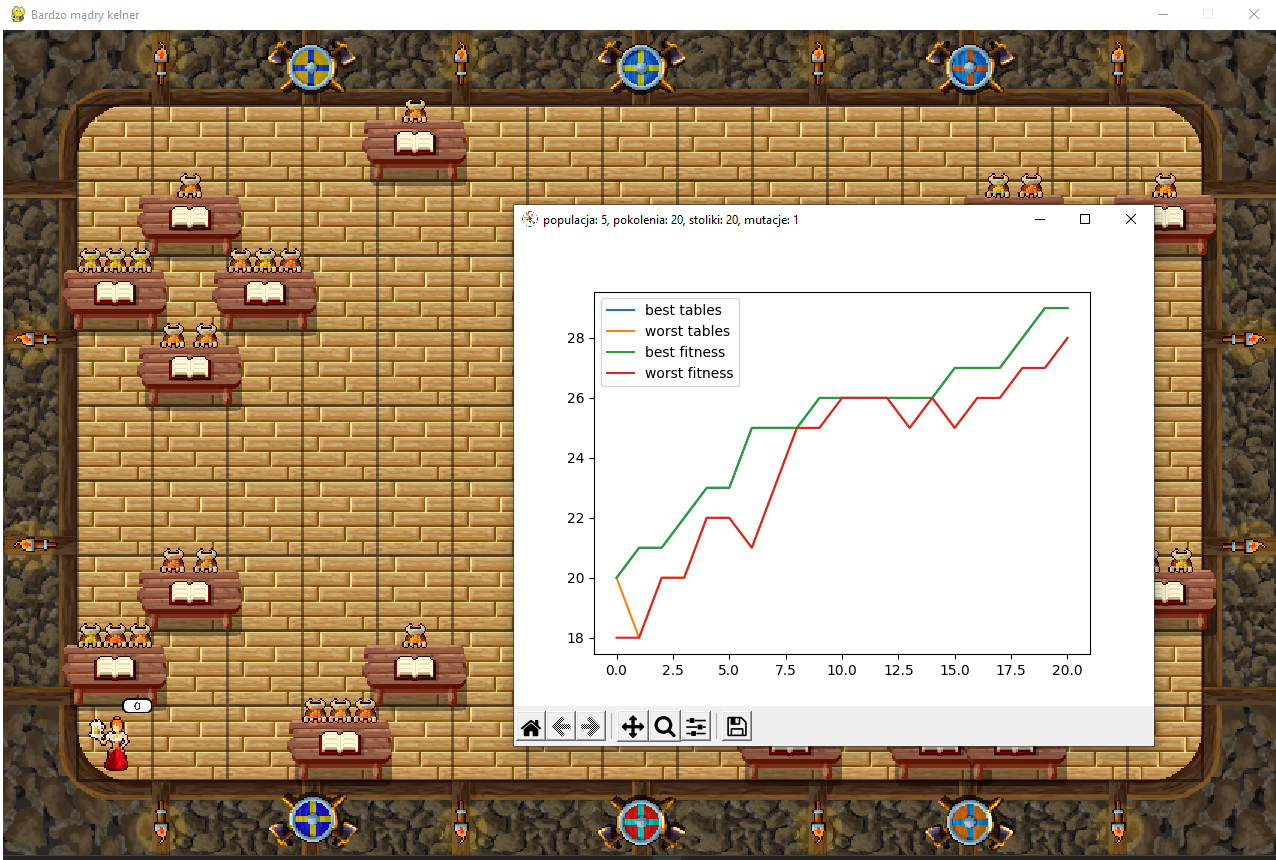
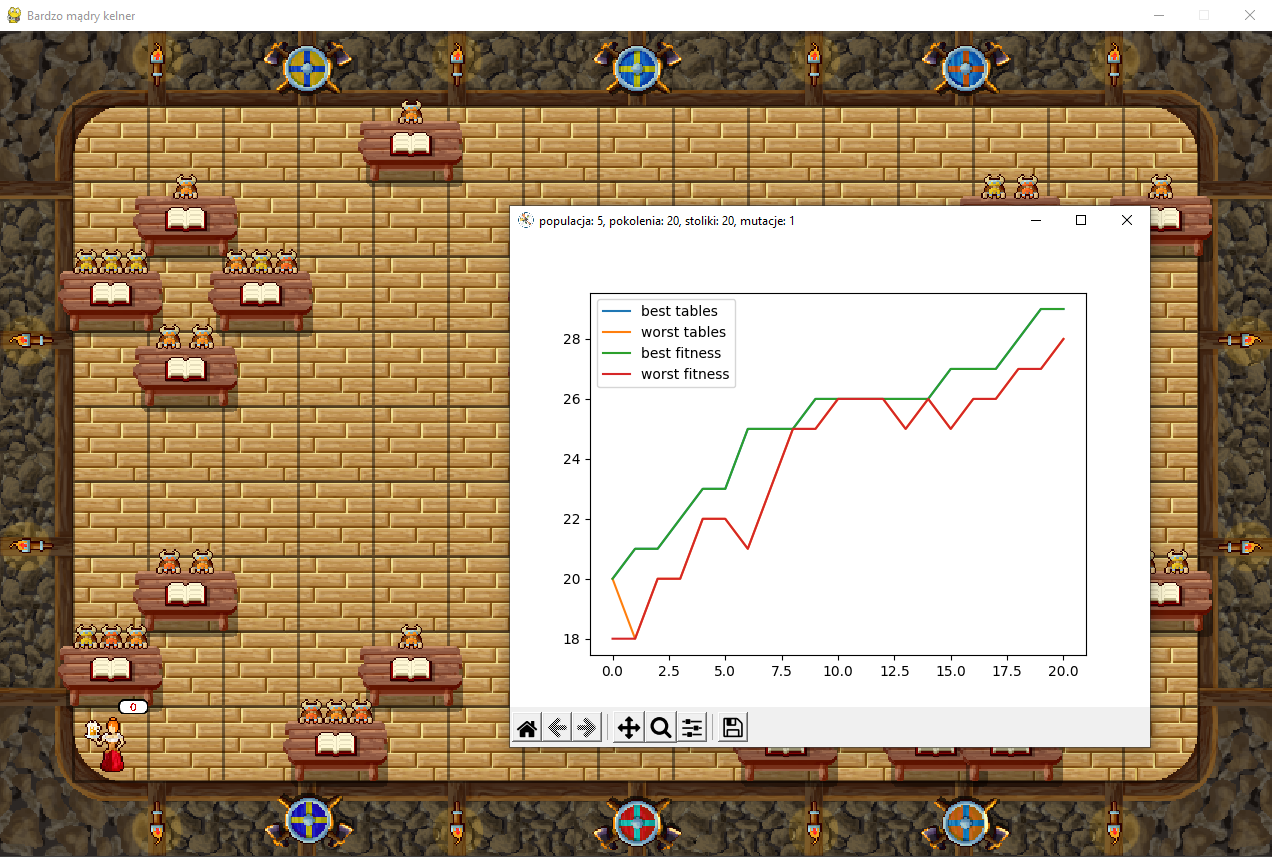
README

diff --git a/README.md b/README.md
@@ -1,1 +1,11 @@
-# AI
+# AI Waiter project
+
+My project for AI course. I implemented A* and genetics algorithms in Python 3.
+Description of these algorithms can be found in "doc" directory, only in Polish language.
+
+![img1](https://github.com/mikolajkrzyminski/kelnerAI/blob/master/images/appPic1.png?raw=true)
+
+![img1](https://github.com/mikolajkrzyminski/kelnerAI/blob/master/images/appPic2.png?raw=true)
+
+
+
